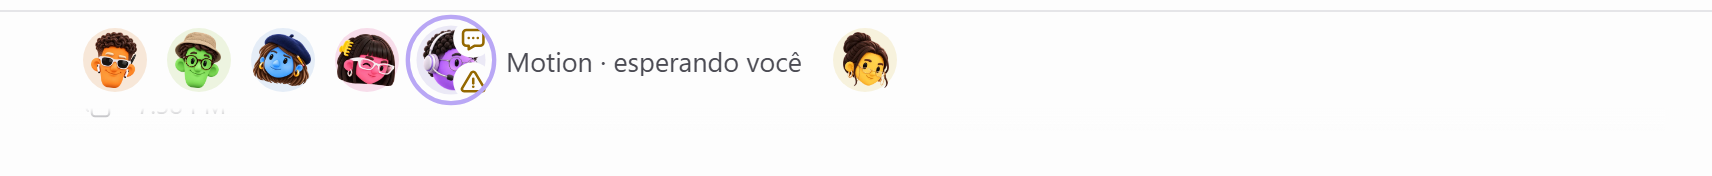
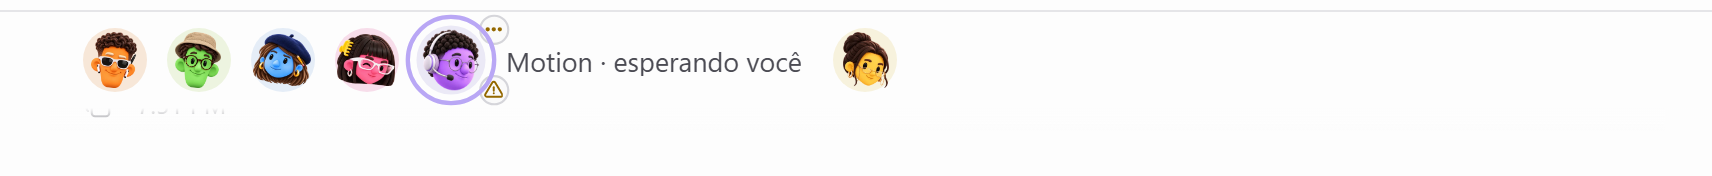
Motion scene: marks move out of the face onto the ring edge; plugin agent names light their character
The waiting bubble and the After Effects badge are small round badges on the
right edge of the ring, above and below the line through the head's centre,
placed by angle and distance so they clear the face, take no room in the row
and stay in the 48px band. A helper lights a character when the cast name is
a whole segment, the first or the last, of its name split on colon or slash,
so Claude Code plugin agents such as tuift-media:cloud are seen.

Changed region(s): [[0.2477, 0.142, 0.3096, 0.5966], [0.2786, 0.0852, 0.3096, 0.1136]]

diff --git a/apps/web/src/motion/motion-cast.css b/apps/web/src/motion/motion-cast.css
@@ -14,7 +14,11 @@
   --cast-gap: 10px;
   --cast-ring: 2px;
   --cast-ring-offset: 3px;
-  --cast-mark: 18px;
+  --cast-mark: 14px;
+  --cast-angle: 35deg;
+  /* From the head's centre to the centre of a mark: the head's radius, the
+     mark's radius and a pixel, so the mark clears the face. */
+  --cast-d: calc(var(--cast-size) / 2 + var(--cast-mark) / 2 + 1px);
 
   position: relative;
   z-index: 1;
@@ -68,7 +72,8 @@
   --cast-size: 56px;
   --cast-gap: 16px;
   --cast-ring-offset: 4px;
-  --cast-mark: 24px;
+  --cast-mark: 22px;
+  --cast-angle: 45deg;
 
   align-self: end;
   justify-content: center;
@@ -153,46 +158,47 @@
   user-select: none;
 }
 
-/* After Effects cannot be used: a warning triangle cut into the head's lower
-   edge, in the app's warning colour. The shape says it, not the colour, and
-   it sits on the head, so the row never moves. */
-.motion-cast__mark {
+/* The two marks sit on the edge of the head's ring, outside the circle, on the
+   right: the waiting bubble above the line through the head's centre, the
+   After Effects badge below it, so Cloud can carry both and neither reaches the
+   face. Each is a small round badge of its own (the app's surface and hairline),
+   placed by an angle and a distance from the head's centre, so it keeps its
+   place at every size of head and takes no room in the row. The warning colour
+   is the sidebar's needs-you one; the shape says it.
+
+   In the 48px band the bubble stays inside the band: at this angle its top is
+   a few pixels under the header's line. Nothing clips it (the scene and the
+   ring have no overflow), and the 10px gap to the next head is not crossed. */
+.motion-cast__mark,
+.motion-cast__wait {
   position: absolute;
-  right: -3px;
-  bottom: -3px;
+  left: calc(50% + var(--cast-d) * cos(var(--cast-angle)) - var(--cast-mark) / 2);
   display: grid;
   place-items: center;
+  box-sizing: border-box;
   width: var(--cast-mark);
   height: var(--cast-mark);
   color: var(--warning);
-  background: var(--bg);
+  background: var(--surface);
+  border: 1px solid var(--line-strong);
   border-radius: var(--r-circle);
   pointer-events: none;
+}
+
+.motion-cast__mark {
+  top: calc(50% + var(--cast-d) * sin(var(--cast-angle)) - var(--cast-mark) / 2);
+}
+
+.motion-cast__wait {
+  top: calc(50% - var(--cast-d) * sin(var(--cast-angle)) - var(--cast-mark) / 2);
+  /* One quiet pop in, then still. */
+  animation: motion-cast-wait-in var(--dur-fast) var(--ease-out) backwards;
 }
 
 .motion-cast__mark svg,
 .motion-cast__wait svg {
-  width: 70%;
-  height: 70%;
-}
-
-/* The chat waits for the person: a speech bubble with dots cut into the head's
-   upper edge, the other corner from the After Effects triangle, so Cloud can
-   carry both. Same warning colour the sidebar's needs-you dot uses; the shape
-   says it. It appears with one quiet pop and then stays still. */
-.motion-cast__wait {
-  position: absolute;
-  top: -3px;
-  right: -3px;
-  display: grid;
-  place-items: center;
-  width: var(--cast-mark);
-  height: var(--cast-mark);
-  color: var(--warning);
-  background: var(--bg);
-  border-radius: var(--r-circle);
-  animation: motion-cast-wait-in var(--dur-fast) var(--ease-out) backwards;
-  pointer-events: none;
+  width: 80%;
+  height: 80%;
 }
 
 @keyframes motion-cast-wait-in {
@@ -331,7 +337,8 @@
     --cast-size: 32px;
     --cast-gap: 10px;
     --cast-ring-offset: 3px;
-    --cast-mark: 18px;
+    --cast-mark: 14px;
+    --cast-angle: 35deg;
 
     align-self: auto;
     justify-content: flex-start;

diff --git a/apps/web/src/motion/cast-activity.test.tsx b/apps/web/src/motion/cast-activity.test.tsx
@@ -1,5 +1,5 @@
 // @vitest-environment happy-dom
-import type { Item } from '@harness/contracts'
+import { ItemSchema, type Item } from '@harness/contracts'
 import { act, cleanup, render } from '@testing-library/react'
 import { Profiler, memo } from 'react'
 import { afterEach, describe, expect, it } from 'vitest'
@@ -45,6 +45,13 @@ describe('castIdOfName', () => {
     expect(castIdOfName('Moss: references')).toBe('moss')
     expect(castIdOfName('zig - audio')).toBe('zig')
     expect(castIdOfName('Cloud/render')).toBe('cloud')
+    // The cast name as the last segment: a plugin agent's type, or a path.
+    expect(castIdOfName('tuift-media:moss')).toBe('moss')
+    expect(castIdOfName('tuift-media:cloud')).toBe('cloud')
+    expect(castIdOfName('TUIFT-Media:Penny')).toBe('penny')
+    expect(castIdOfName('team/cloud')).toBe('cloud')
+    expect(castIdOfName('a:b/zig')).toBe('zig')
+    expect(castIdOfName('tuift-media : pip ')).toBe('pip')
     expect(castIdOfName('Bun (script)')).toBe('bun')
     expect(castIdOfName('Pip · folders')).toBe('pip')
   })
@@ -56,6 +63,12 @@ describe('castIdOfName', () => {
       'Pipeline',
       'Bunny',
       'Cloud deploy',
+      'tuift-media:mossy',
+      'tuift-media:cloud deploy',
+      'x:moss:team',
+      'cloud-team:explorer',
+      'tuift-media:',
+      'tuift-media',
       'Penny2',
       'The Moss',
       'Zigzag',
@@ -96,6 +109,45 @@ describe('workingCast', () => {
         { ...helper('f', 'Penny'), subagent: undefined },
       ]),
     ).toEqual([])
+  })
+})
+
+describe('a provider own sub-agent', () => {
+  // Claude Code reports a plugin agent by its type: the adapter copies the Agent tool's
+  // `subagent_type` into `subagent.name`, and the transcript row shows that same field
+  // ("Running tuift-media:cloud · Montagem AE e render"). The derivation reads `name`.
+  const claudeCodeAgent = (type: string, state: 'running' | 'completed' = 'running'): Item =>
+    ItemSchema.parse({
+      id: `toolu_${type}:call`,
+      turnId: 'turn-1',
+      type: 'tool_call',
+      status: state === 'running' ? 'started' : 'completed',
+      text: 'Agent',
+      createdAt: 1,
+      subagent: {
+        id: `toolu_${type}`,
+        name: type,
+        description: 'Montagem AE e render',
+        state,
+        background: true,
+        transcriptId: 'task-1',
+        toolUses: 3,
+        lastTool: 'mcp__after-effects__ae_do',
+      },
+    })
+
+  it('lights the character named by the plugin agent type', () => {
+    expect(workingCast([claudeCodeAgent('tuift-media:cloud')])).toEqual(['cloud'])
+    expect(
+      workingCast([claudeCodeAgent('tuift-media:moss'), claudeCodeAgent('tuift-media:penny')]),
+    ).toEqual(['moss', 'penny'])
+    expect(workingCast([claudeCodeAgent('Explore'), claudeCodeAgent('general-purpose')])).toEqual(
+      [],
+    )
+  })
+
+  it('goes back to rest when it finishes', () => {
+    expect(workingCast([claudeCodeAgent('tuift-media:cloud', 'completed')])).toEqual([])
   })
 })
 

diff --git a/apps/web/src/styles/motion-cast-motion.test.ts b/apps/web/src/styles/motion-cast-motion.test.ts
@@ -16,6 +16,11 @@ function rule(selector: string, source = css): string {
   )
 }
 
+/** A rule that stands alone: not the last selector of a group. */
+function alone(selector: string): string {
+  return css.split(`\n${selector} {`).at(-1)?.split('\n}')[0] ?? ''
+}
+
 function keyframes(name: string): string[] {
   const body = css.match(new RegExp(`@keyframes ${name} \\{(?<body>[\\s\\S]*?)\\n\\}`))?.groups?.[
     'body'
@@ -67,15 +72,33 @@ describe('Motion cast styles', () => {
     expect(css.match(/animation: motion-cast-breathe/g)).toHaveLength(1)
   })
 
-  it('draws the waiting mark on the other corner from the After Effects one, once, without a loop', () => {
-    const wait = rule('.motion-cast__wait')
-    expect(wait).toMatch(/top: -3px;[\s\S]*right: -3px;/)
-    expect(rule('.motion-cast__mark')).toMatch(/right: -3px;\s*bottom: -3px;/)
+  it('sits both marks on the ring outside the face: the bubble above the line through the centre, the badge below, on the right', () => {
+    const wait = alone('.motion-cast__wait')
+    const mark = alone('.motion-cast__mark')
+    expect(wait).toContain('top: calc(50% - var(--cast-d) * sin(var(--cast-angle))')
+    expect(mark).toContain('top: calc(50% + var(--cast-d) * sin(var(--cast-angle))')
+    const base = rule(['.motion-cast__mark,', '.motion-cast__wait'].join('\n'))
+    expect(base).toContain('left: calc(50% + var(--cast-d) * cos(var(--cast-angle))')
+    // Its own badge, from the app's tokens, so it reads over any head colour.
+    expect(base).toContain('background: var(--surface);')
+    expect(base).toContain('border: 1px solid var(--line-strong);')
+    expect(base).toContain('color: var(--warning);')
+    // Out of the flow: a mark appearing or leaving moves nothing.
+    expect(base).toContain('position: absolute;')
+    // The distance clears the head: its radius, the mark's radius and a pixel.
+    expect(css).toContain('--cast-d: calc(var(--cast-size) / 2 + var(--cast-mark) / 2 + 1px);')
+    // Nothing clips it: no overflow on the scene, its members or the heads.
+    expect(rule('.motion-cast')).not.toMatch(/overflow/)
+    expect(rule('.motion-cast__member')).not.toMatch(/overflow/)
+    expect(rule('.motion-cast__head')).not.toMatch(/overflow/)
+  })
+
+  it('brings the waiting bubble in once, without a loop', () => {
+    const wait = alone('.motion-cast__wait')
     expect(wait).toContain(
       'animation: motion-cast-wait-in var(--dur-fast) var(--ease-out) backwards;',
     )
     expect(wait).not.toContain('infinite')
-    expect(wait).toContain('color: var(--warning);')
   })
 
   it('stands still under reduced motion and keeps the ring and the label', () => {

diff --git a/apps/web/src/motion/cast-names.ts b/apps/web/src/motion/cast-names.ts
@@ -14,21 +14,30 @@ export const CAST_NAMES: readonly (readonly [CastId, string])[] = [
   ['penny', 'Penny'],
 ]
 
-/** What may follow a character's name in a helper's name: "Moss: references", "Zig - audio". */
-const NAME_SEPARATOR = /^\s*[:\-–—/·|_(,]/
+/** What may follow a character's name inside a segment: "Zig - audio", "Bun (script)". */
+const NAME_SEPARATOR = /^\s*[\-–—·|_(,]/
 
 /**
- * The character a helper agent is named after: the whole name, or the name
- * followed by a separator, in any case. "Mossy", "Pipeline" and "Cloud deploy"
- * are other names and light nobody.
+ * The character a helper agent is named after. A name is read as segments split
+ * on ":" and "/": the cast name must be a whole segment, the first or the last
+ * one, in any case, so "Moss: references", "tuift-media:cloud" (a Claude Code
+ * plugin agent: prefix, colon, name) and "team/penny" match. A name that is only
+ * a cast name followed by a separator ("Zig - audio") matches too. "Mossy",
+ * "Pipeline", "Cloud deploy", "tuift-media:mossy" and "cloud-team:explorer" are
+ * other names.
  */
 export function castIdOfName(name: string | undefined): CastId | undefined {
   const text = name?.trim().toLowerCase()
   if (!text) return undefined
+  const segments = text.split(/[:/]/).map((segment) => segment.trim())
+  const ends = [segments[0], segments.at(-1)]
   return CAST_NAMES.find(([, own]) => {
     const lower = own.toLowerCase()
     return (
-      text === lower || (text.startsWith(lower) && NAME_SEPARATOR.test(text.slice(lower.length)))
+      ends.includes(lower) ||
+      (segments.length === 1 &&
+        text.startsWith(lower) &&
+        NAME_SEPARATOR.test(text.slice(lower.length)))
     )
   })?.[0]
 }

diff --git a/apps/web/src/motion/MotionCast.tsx b/apps/web/src/motion/MotionCast.tsx
@@ -1,4 +1,4 @@
-import { IconAlertTriangle, IconMessageDots } from '@tabler/icons-react'
+import { IconAlertTriangle, IconDots } from '@tabler/icons-react'
 import { memo, useEffect, useRef, useState, type CSSProperties } from 'react'
 import { useI18n } from '../i18n/index.js'
 import { Menu, MenuItem } from '../ui/Menu.js'
@@ -175,7 +175,7 @@ function Member(props: {
         ) : null}
         {waiting ? (
           <span className="motion-cast__wait" aria-hidden>
-            <IconMessageDots size={11} stroke={2.25} />
+            <IconDots size={11} stroke={3} />
           </span>
         ) : null}
       </span>
